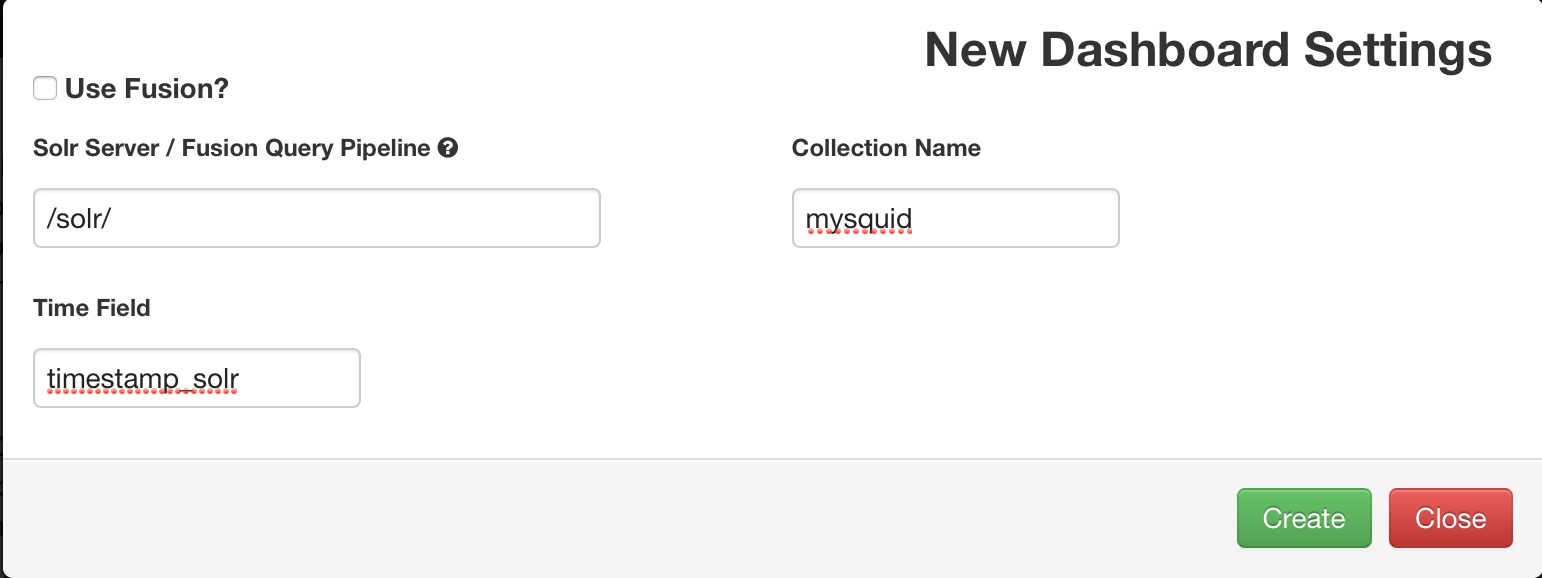
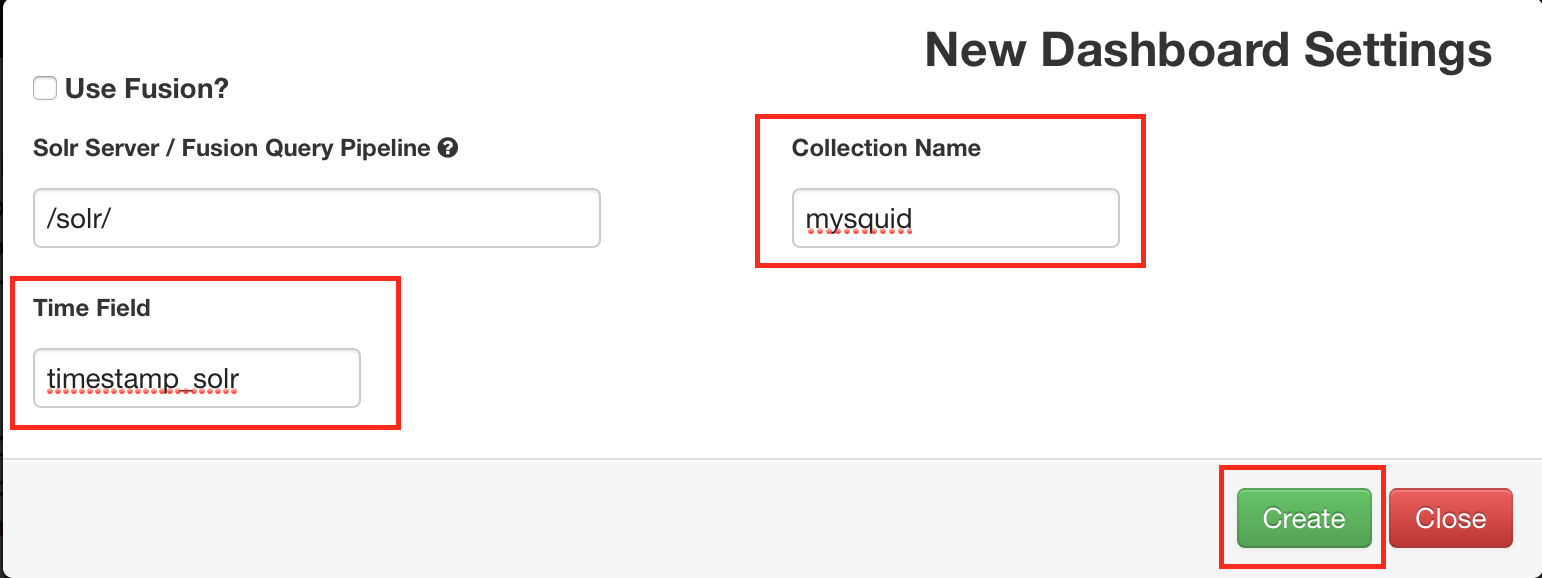
align images and add annotations

Changed region(s): [[0.4669, 0.1869, 0.7471, 0.4671], [0.0, 0.4671, 0.2802, 0.7474], [0.7782, 0.7785, 0.9027, 0.9965]]

diff --git a/07_ExploringEventHistory/README.md b/07_ExploringEventHistory/README.md
@@ -106,11 +106,11 @@ http://mobius.local.localdomain:8983/solr/banana
 
 3. Click on the New icon in the upper right.  Select Time-series dashboard.
 
-<img src="images/banana_01.png" width="75%" height="75%" title="Banana 01">
+<img src="images/banana_01.png" width="50%" height="50%" title="Banana 01">
 
 4. The New Dashboard Settings dialog appears.   Enter mysquid in the Collection Name.  Enter timestamp_solr in the Time Field.  Click Create.
 
-<img src="images/banana_02.png" width="80%" height="80%" title="Banana 02">
+<img src="images/banana_02.png" width="60%" height="60%" title="Banana 02">
 
 5. The New Time Series Dashboard appears with default visualizations.  The dashboard consists of vertical rows.  Each row has one or more panels that display data.
 
@@ -118,7 +118,7 @@ http://mobius.local.localdomain:8983/solr/banana
 
 6. Locate Total Hits in the upper right of the dashboard.   The total hits is zero.  Click on the gear icon in the Total Hits panel. 
 
-<img src="images/banana_04.png" width="80%" height="80%" title="Banana 04">
+<img src="images/banana_04.png" width="60%" height="60%" title="Banana 04">
 
 7. The Hits Setting dialog opens.
 
@@ -128,27 +128,27 @@ http://mobius.local.localdomain:8983/solr/banana
 
 9. Enter guid in the Field. Click Close.
 
-<img src="images/banana_06.png" width="95%" height="95%" title="Banana 06">
+<img src="images/banana_06.png" width="75%" height="75%" title="Banana 06">
 
 10. The Total Hits will now display the number of mysquid events in the time period for the dashboard.
 
-<img src="images/banana_07.png" width="95%" height="95%" title="Banana 07">
+<img src="images/banana_07.png" width="60%" height="60%" title="Banana 07">
 
 11. The Time Window in the upper left controls the time period of the data displayed in the dashboard.  Time periods are relative to the current time by default.
 
-<img src="images/banana_08.png" width="95%" height="95%" title="Banana 08">
+<img src="images/banana_10.png" width="95%" height="95%" title="Banana 10">
 
 12. Click on the disk icon to save the dashboard.  Enter squid in the text entry field.  Click the disk icon to save. 
 
-<img src="images/banana_09.png" width="95%" height="95%" title="Banana 09">
+<img src="images/banana_08.png" width="50%" height="50%" title="Banana 08">
 
 13. To select the dashboard displayed, select the folder icon.  Click on the squid link at the bottom of the dialog. 
 
-<img src="images/banana_10.png" width="95%" height="95%" title="Banana 10">
+<img src="images/banana_09.png" width="50%" height="50%" title="Banana 09">
 
 14. Check Auto-refresh and the dashboard will read the latest data from the index and update the visualization. 
 
-<img src="images/banana_11.png" width="95%" height="95%" title="Banana 11">
+<img src="images/banana_10.png" width="95%" height="95%" title="Banana 10">
 
 15. Scroll to the bottom of the window and click + Add a row. 
 
